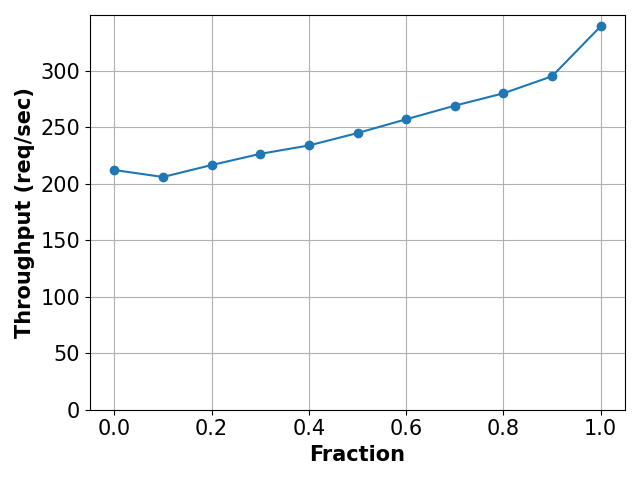
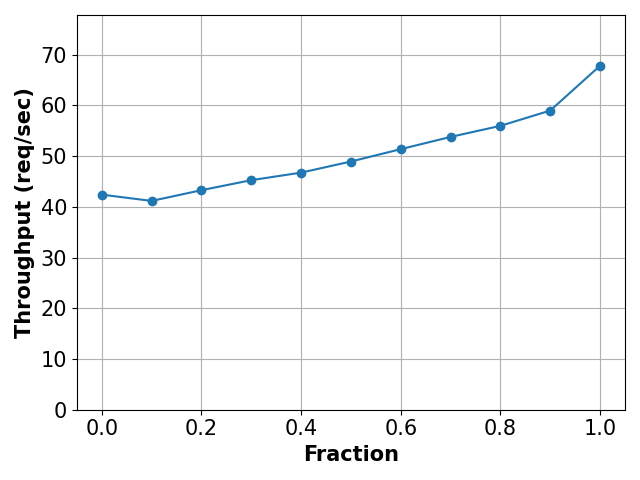
frac share throughput

diff --git a/code/vllm/fraction_sharing_dcgmi_logs/read.py b/code/vllm/fraction_sharing_dcgmi_logs/read.py
@@ -44,7 +44,7 @@ for frac in fractions:
     if len(group) != iters_per_fraction - 1:
         break
     avg_duration = sum(group) / len(group)
-    avg_durations.append(500/avg_duration)
+    avg_durations.append(100/avg_duration)
     idx += iters_per_fraction
 
 # Plot
